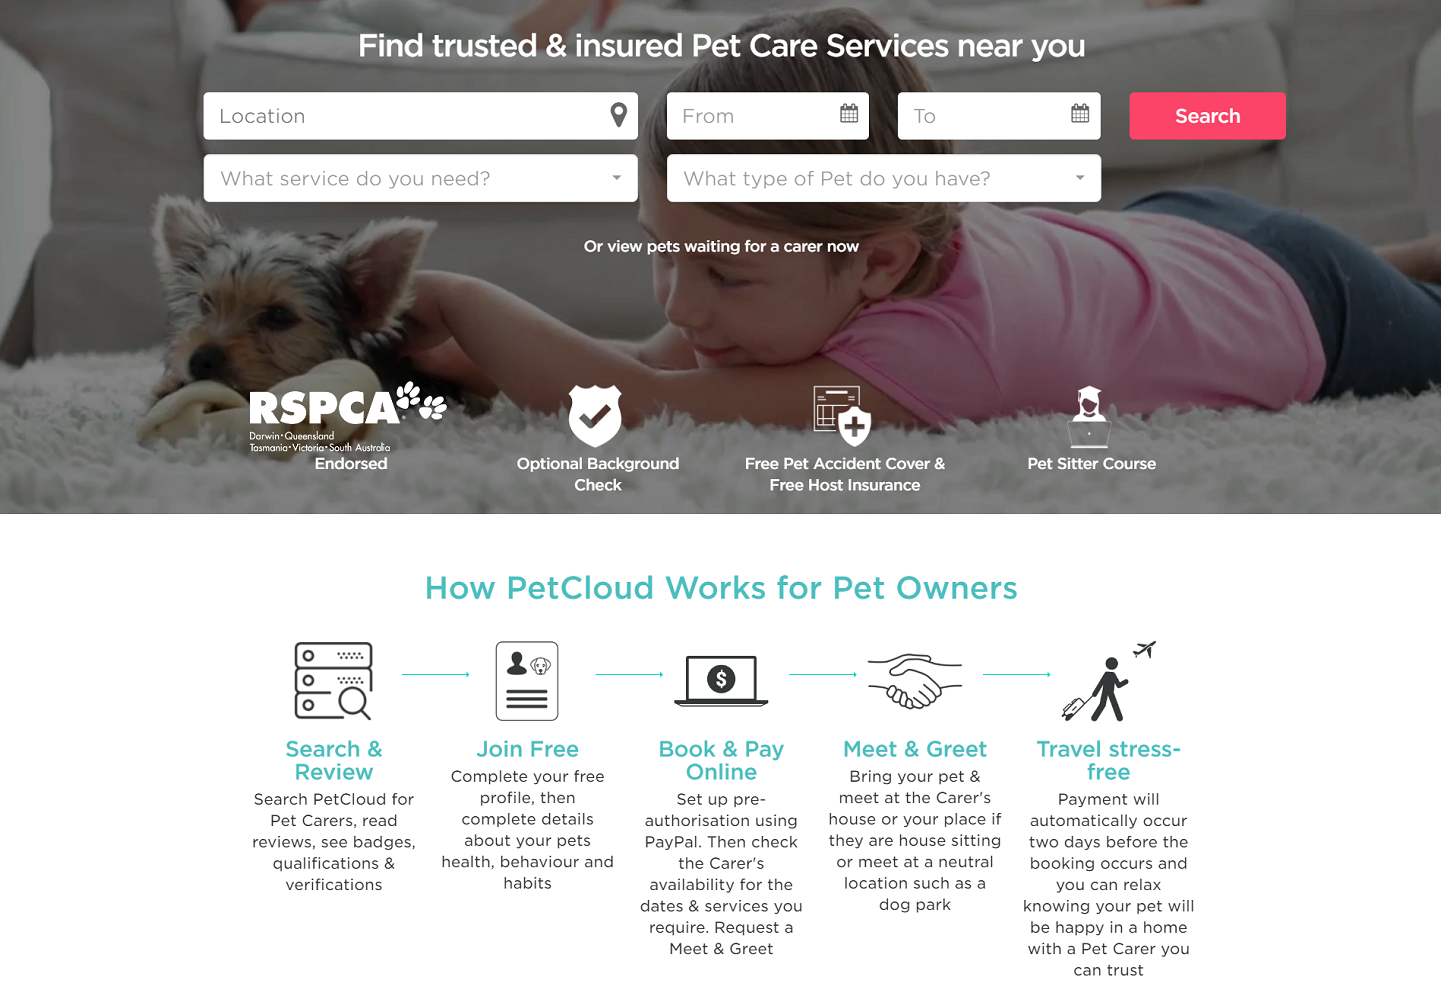
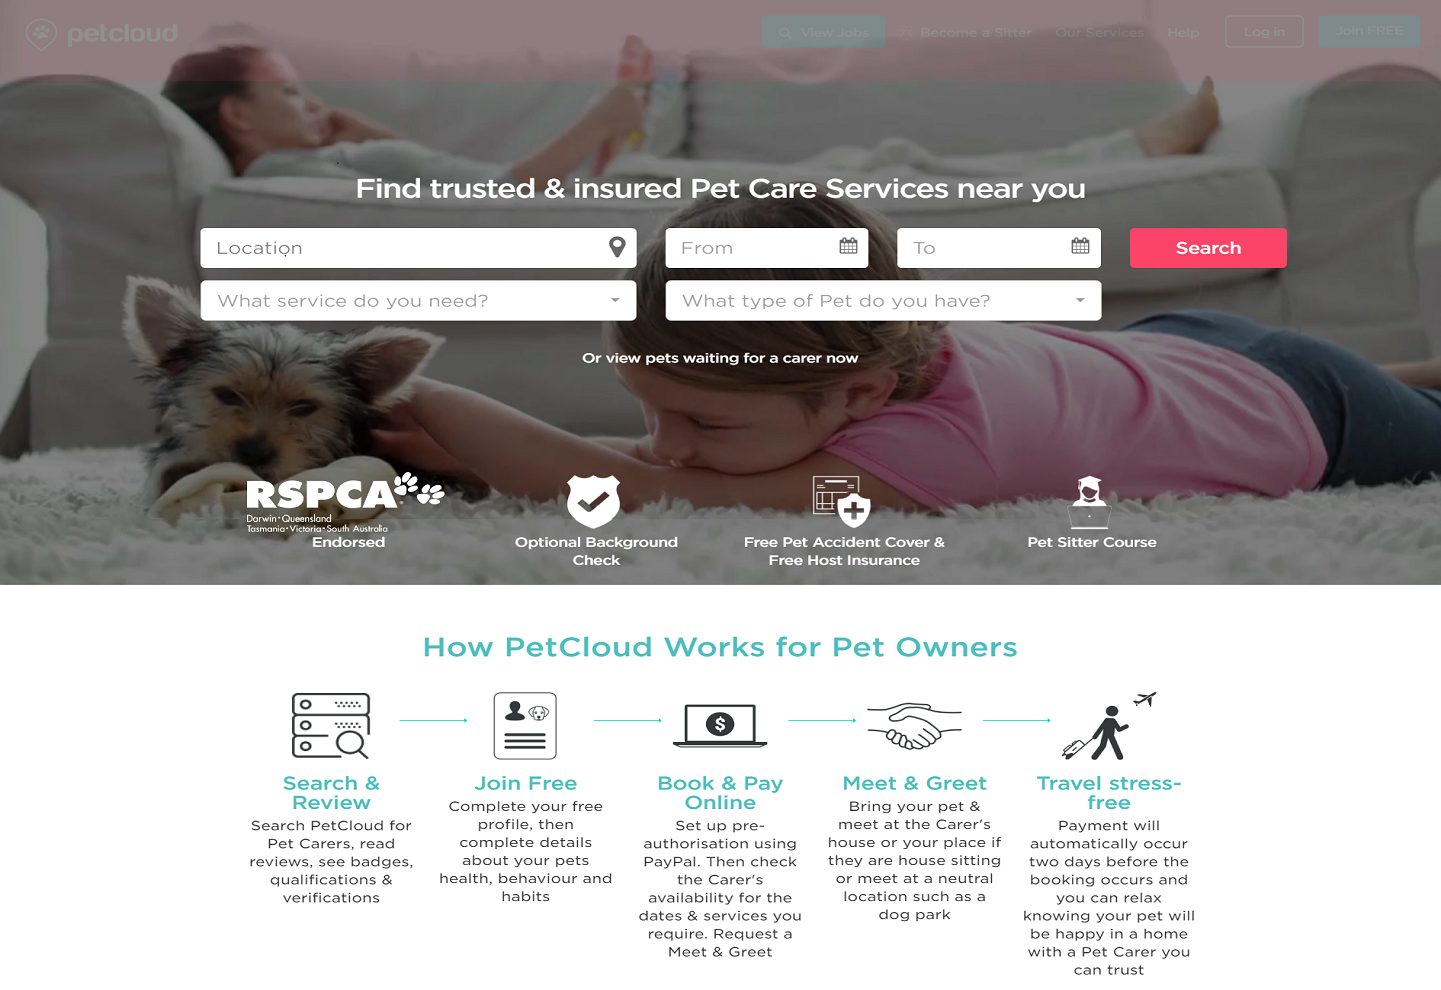
bug fix

diff --git a/public/css/styles.css b/public/css/styles.css
@@ -4127,7 +4127,7 @@ input[type="submit"], input[type="button"] {
 
 @media (min-width: 300px) {
     .promo {
-        height: 650px;
+        height: 541px;
         padding-top: 40px;
     }
     .promo-quickstart {
@@ -4212,7 +4212,7 @@ input[type="submit"], input[type="button"] {
         float: right !important;
     }
     .promo {
-        height: 500px;
+        height: 476px;
         padding-top: 40px;
     }
     .promo-quickstart {
@@ -4926,7 +4926,7 @@ input[type="submit"], input[type="button"] {
     }
     .comps-usingus-bx:first-child {
         margin-left: 60px!important;
-        margin-top: 10px!important;
+        margin-top: 18px!important;
     }
 }
 
@@ -5351,11 +5351,11 @@ input[type="submit"], input[type="button"] {
     }
     .comps-usingus-bx:first-child {
         margin-left: auto!important;
-        margin-top: 10px!important;
+        margin-top: 18px!important;
     }
     .comps-usingus-bx {
         margin-left: auto!important;
-        margin-top: 10px!important;
+        margin-top: 18px!important;
     }
     .comps-usingus-bx:last-child {
         padding-bottom: 5px!important;
